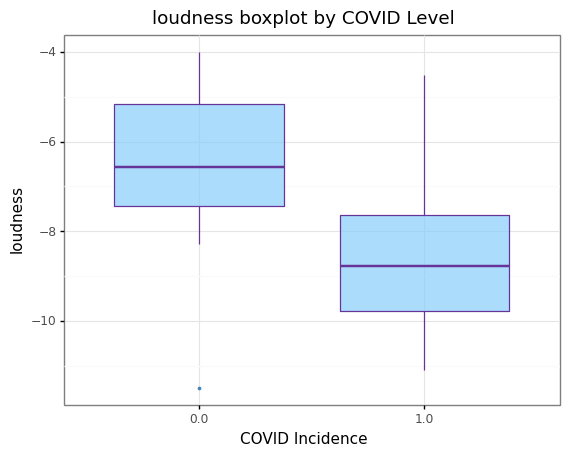
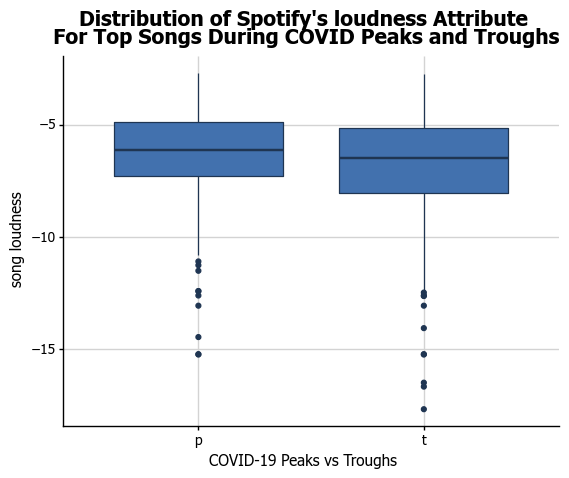
added more data viz stuff

diff --git a/analysis_deliverable/song_covid_data_viz.py b/analysis_deliverable/song_covid_data_viz.py
@@ -1,0 +1,278 @@
+# script for data visulization 
+import sqlite3
+from Spotify_Song_Data import getSongData
+import pandas as pd 
+import plotnine
+from plotnine import *
+import numpy as np
+import matplotlib.pyplot as plt
+import plotly.graph_objects as go
+import plotly.offline as pyo
+
+CHARTS_FILE = "/Users/mohammedakel/Desktop/CS1951A-Spring2022/rim-dj/analysis_deliverable/charts"
+
+def get_songs_by_date(month, day, year):
+    db = '/Users/mohammedakel/Desktop/CS1951A-Spring2022/rim-dj/data_deliverable/data/billboard.db'
+    # create a database connection
+    conn = sqlite3.connect(db)
+    cur = conn.cursor()
+    cur.execute("SELECT title, artist FROM billboard WHERE month=? AND day=? AND year=?", (month, day, year,))
+    rows = cur.fetchall()
+    song_titles = []
+    artist_names = []
+    for row in rows:
+        song_titles.append(row[0])
+        artist_names.append(row[1])
+
+    return song_titles, artist_names
+
+
+def get_peak_attribute(attribute):
+    # Peaks: 4/10/2020, 7/24/2020, 1/11/2021, 9/13/2021, 1/15/2022
+    titles = []
+    names = []
+    attribute_values = []
+    
+    titles_one, names_one = get_songs_by_date(4, 10, 2020)
+    titles_two, names_two = get_songs_by_date(7, 24, 2020)
+    titles_three, names_three = get_songs_by_date(1, 11, 2021)
+    titles_four, names_four = get_songs_by_date(9, 13, 2021)
+    titles_five, names_five = get_songs_by_date(1, 15, 2022)
+
+    titles = titles + titles_one + titles_two + titles_three + titles_four + titles_five
+    names = names + names_one + names_two + names_three + names_four + names_five
+
+    for i in range(len(titles)):
+        song = getSongData(titles[i], names[i], 1)
+        if len(song) != 0:
+            attribute_values.append(song[0][attribute])
+
+    return attribute_values
+
+def get_trough_attribute(attribute):
+    # Troughs: 9/11/2020, 12/30/2020, 6/22/2021, 10/26/2021, 11/28/2021
+    titles = []
+    names = []
+    attribute_values = []
+    
+    titles_one, names_one = get_songs_by_date(9, 11, 2020)
+    titles_two, names_two = get_songs_by_date(12, 30, 2020)
+    titles_three, names_three = get_songs_by_date(6, 22, 2021)
+    titles_four, names_four = get_songs_by_date(10, 26, 2021)
+    titles_five, names_five = get_songs_by_date(11, 28, 2022)
+
+    titles = titles + titles_one + titles_two + titles_three + titles_four + titles_five
+    names = names + names_one + names_two + names_three + names_four + names_five
+
+    for i in range(len(titles)):
+        song = getSongData(titles[i], names[i], 1)
+        if len(song) != 0:
+            attribute_values.append(song[0][attribute])
+
+    return attribute_values
+
+
+
+ # ---------------------------------------------------
+ # code for creating boxplots by attribute 
+ #attributes = ["id", "name", "popularity", "duration_ms", "explicit", "dancability", "liveness", "loudness", "speech", "instrumental", "Acoustic", "Energy", "tempo", "valance"]
+
+def create_attribute_boxplot(attribute): 
+	attribute_peak = get_peak_attribute(attribute)
+	print("loaded peak data for " + attribute)
+	attribute_trough = get_trough_attribute(attribute)
+	print("loaded trough data for " + attribute)
+	attribute_col = np.concatenate([attribute_peak, attribute_trough])
+	a = np.full(len(attribute_peak), "peak", dtype=np.str)
+	b = np.full(len(attribute_trough), "trough", dtype=np.str)
+	level = np.concatenate([a, b], dtype=np.str)
+	tb = list(zip(attribute_col, level))
+	df = pd.DataFrame(tb, columns=["values", "level"])
+	p10 = (
+    ggplot(df, aes("level", "values"))
+    + geom_boxplot(colour="#1F3552", fill="#4271AE")
+    + geom_jitter()
+    + xlab("COVID-19 Peaks vs Troughs")
+    + ylab("song " + str(attribute))
+    + ggtitle("Distribution of Spotify's " + str(attribute) + " Attribute\n For Top Songs During COVID Peaks and Troughs with jitter")
+    + theme(
+        axis_line=element_line(size=1, colour="black"),
+        panel_grid_major=element_line(colour="#d3d3d3"),
+        panel_grid_minor=element_blank(),
+        panel_border=element_blank(),
+        panel_background=element_blank(),
+        plot_title=element_text(size=15, family="Tahoma", 
+                                face="bold"),
+        text=element_text(family="Tahoma", size=11),
+        axis_text_x=element_text(colour="black", size=10),
+        axis_text_y=element_text(colour="black", size=10),
+    	)
+	)
+	ggsave(plot=p10,filename = str(attribute) + "_boxplot_jitter.png", path=CHARTS_FILE)
+	p11 = (
+    ggplot(df, aes("level", "values"))
+    + geom_boxplot(colour="#1F3552", fill="#4271AE")
+    + xlab("COVID-19 Peaks vs Troughs")
+    + ylab("song " + str(attribute))
+    + ggtitle("Distribution of Spotify's " + str(attribute) + " Attribute\n For Top Songs During COVID Peaks and Troughs")
+    + theme(
+        axis_line=element_line(size=1, colour="black"),
+        panel_grid_major=element_line(colour="#d3d3d3"),
+        panel_grid_minor=element_blank(),
+        panel_border=element_blank(),
+        panel_background=element_blank(),
+        plot_title=element_text(size=15, family="Tahoma", 
+                                face="bold"),
+        text=element_text(family="Tahoma", size=11),
+        axis_text_x=element_text(colour="black", size=10),
+        axis_text_y=element_text(colour="black", size=10),
+    	)
+	)
+	ggsave(plot=p11,filename = str(attribute) + "_boxplot.png", path=CHARTS_FILE)
+	final = "saved graphs for " + str(attribute)
+	return final
+
+
+#uncomment to create boxplots. check CHART_FILE 
+'''
+print(create_attribute_boxplot("energy"))
+print(create_attribute_boxplot("popularity"))
+print(create_attribute_boxplot("duration_ms")) 
+print(create_attribute_boxplot("danceability")) 
+print(create_attribute_boxplot("liveness")) 
+print(create_attribute_boxplot("loudness")) 
+print(create_attribute_boxplot("speechiness")) 
+print(create_attribute_boxplot("instrumentalness")) 
+print(create_attribute_boxplot("acousticness")) 
+print(create_attribute_boxplot("tempo")) 
+print(create_attribute_boxplot("valence"))
+
+'''
+
+# sample graphs 
+'''
+p10 = (
+    ggplot(df, aes("level", "energy"))
+    + geom_boxplot(colour="#1F3552", fill="#4271AE")
+    + geom_jitter()
+    + xlab("COVID-19 Peaks vs Troughs")
+    + ylab("Song Energy")
+    + scale_y_continuous(breaks=np.arange(0, 2, 0.1), 
+                         limits=[0, 1])
+    + ggtitle("Distribution of Spotify's Energy Attribute\n For Top Songs During COVID Peaks and Troughs")
+    + theme(
+        axis_line=element_line(size=1, colour="black"),
+        panel_grid_major=element_line(colour="#d3d3d3"),
+        panel_grid_minor=element_blank(),
+        panel_border=element_blank(),
+        panel_background=element_blank(),
+        plot_title=element_text(size=15, family="Tahoma", 
+                                face="bold"),
+        text=element_text(family="Tahoma", size=11),
+        axis_text_x=element_text(colour="black", size=10),
+        axis_text_y=element_text(colour="black", size=10),
+    )
+)
+
+p11 = (
+    ggplot(df, aes("level", "energy"))
+    + geom_boxplot(colour="#1F3552", fill="#4271AE")
+    + xlab("COVID-19 Peaks vs Troughs")
+    + ylab("Song Energy")
+    + scale_y_continuous(breaks=np.arange(0, 2, 0.1), 
+                         limits=[0, 1])
+    + ggtitle("Distribution of Spotify's Energy Attribute\n For Top Songs During COVID Peaks and Troughs")
+    + theme(
+        axis_line=element_line(size=1, colour="black"),
+        panel_grid_major=element_line(colour="#d3d3d3"),
+        panel_grid_minor=element_blank(),
+        panel_border=element_blank(),
+        panel_background=element_blank(),
+        plot_title=element_text(size=15, family="Tahoma", 
+                                face="bold"),
+        text=element_text(family="Tahoma", size=11),
+        axis_text_x=element_text(colour="black", size=10),
+        axis_text_y=element_text(colour="black", size=10),
+    )
+)
+
+p12 = (
+    ggplot(df, aes("level", "energy"))
+    + geom_boxplot(colour="#1F3552", fill="#4271AE", notch=True)
+    + xlab("COVID-19 Peaks vs Troughs")
+    + ylab("Song Energy")
+    + scale_y_continuous(breaks=np.arange(0, 2, 0.1), 
+                         limits=[0, 1])
+    + ggtitle("Distribution of Spotify's Energy Attribute\n For Top Songs During COVID Peaks and Troughs")
+    + theme(
+        axis_line=element_line(size=1, colour="black"),
+        panel_grid_major=element_line(colour="#d3d3d3"),
+        panel_grid_minor=element_blank(),
+        panel_border=element_blank(),
+        panel_background=element_blank(),
+        plot_title=element_text(size=15, family="Tahoma", 
+                                face="bold"),
+        text=element_text(family="Tahoma", size=11),
+        axis_text_x=element_text(colour="black", size=10),
+        axis_text_y=element_text(colour="black", size=10),
+    )
+)
+
+'''
+
+#------------------------------------------------------------------------------------------------
+#code for creating radar maps
+#"valence"
+#peak = 0.5096528571428571
+#trough=  0.5066308483290489
+
+radar_attributes = ["energy", "danceability", "liveness", "speechiness",  "instrumentalness", "acousticness", "valence", "energy"]
+peak_means_cal = [0.6318510204081632, 0.667104081632653, 0.17550040816326534,  0.11316204081632653, 0.004349192102040816,
+                  0.21523781428571429, 0.5096528571428571, 0.6318510204081632]
+trough_means_cal = [0.6099922879177377, 0.6611876606683804, 0.16838020565552697, 0.12052750642673524, 0.0028522052442159383,
+                    0.2492472673521851, 0.5066308483290489, 0.6099922879177377]
+
+
+'''
+for att in radar_attributes:
+    peak_data = get_peak_attribute(att)
+    print("loaded peak data for: " + str(att))
+    mean_peak = np.mean(peak_data)
+    print("peak_mean for " + str(att) + " is:")
+    print(mean_peak)
+    peak_means.append(mean_peak)
+    trough_data = get_trough_attribute(att)
+    print("loaded trough data for: " + str(att))
+    mean_trough = np.mean(trough_data)
+    print("trough_mean for " + str(att) + " is:")
+    print(mean_trough)
+    trough_means.append(mean_trough)
+'''
+
+label_loc = np.linspace(start=0, stop=2 * np.pi, num=len(peak_means_cal))
+plt.figure(figsize=(6, 6))
+plt.subplot(polar=True)
+plt.plot(label_loc, peak_means_cal, label='Peaks')
+plt.plot(label_loc, trough_means_cal, label='Troughs')
+plt.title('Attributes Means for Top 100 Songs', size=16)
+lines, labels = plt.thetagrids(np.degrees(label_loc), labels=radar_attributes)
+plt.legend()
+plt.show()
+
+
+fig = go.Figure(
+    data=[
+        go.Scatterpolar(r=peak_means_cal, theta=radar_attributes, fill='toself', name='Peaks'),
+        go.Scatterpolar(r=trough_means_cal, theta=radar_attributes, fill='toself',  name='Troughs'),
+    ],
+    layout=go.Layout(
+        title=go.layout.Title(text='Attributes Means for Top 100 Songs'),
+        polar={'radialaxis': {'visible': True}},
+        showlegend=True
+    )
+)
+
+pyo.plot(fig)
+
+
+

diff --git a/analysis_deliverable/data_viz.py b/analysis_deliverable/data_viz.py
@@ -1,6 +1,7 @@
 from hypothesis_testing import * 
 import pandas as pd 
 
+print("start")
 charts_file_path = "/Users/mohammedakel/Desktop/CS1951A-Spring2022/rim-dj/analysis_deliverable/charts"
 
 def attributes_corr_heatmap(df):
@@ -17,6 +18,7 @@ peak_dancability = get_peak_attribute("danceability")
 print("loaded peak dancability")
 dancability_boxPlot = pd.concat([trough_dancability, peak_dancability], axis=1).boxplot()
 print(dancability_boxPlot)
+
 
 #--------------------------------------------------------------------------------------------------------------------------------------------------------------------
 '''
